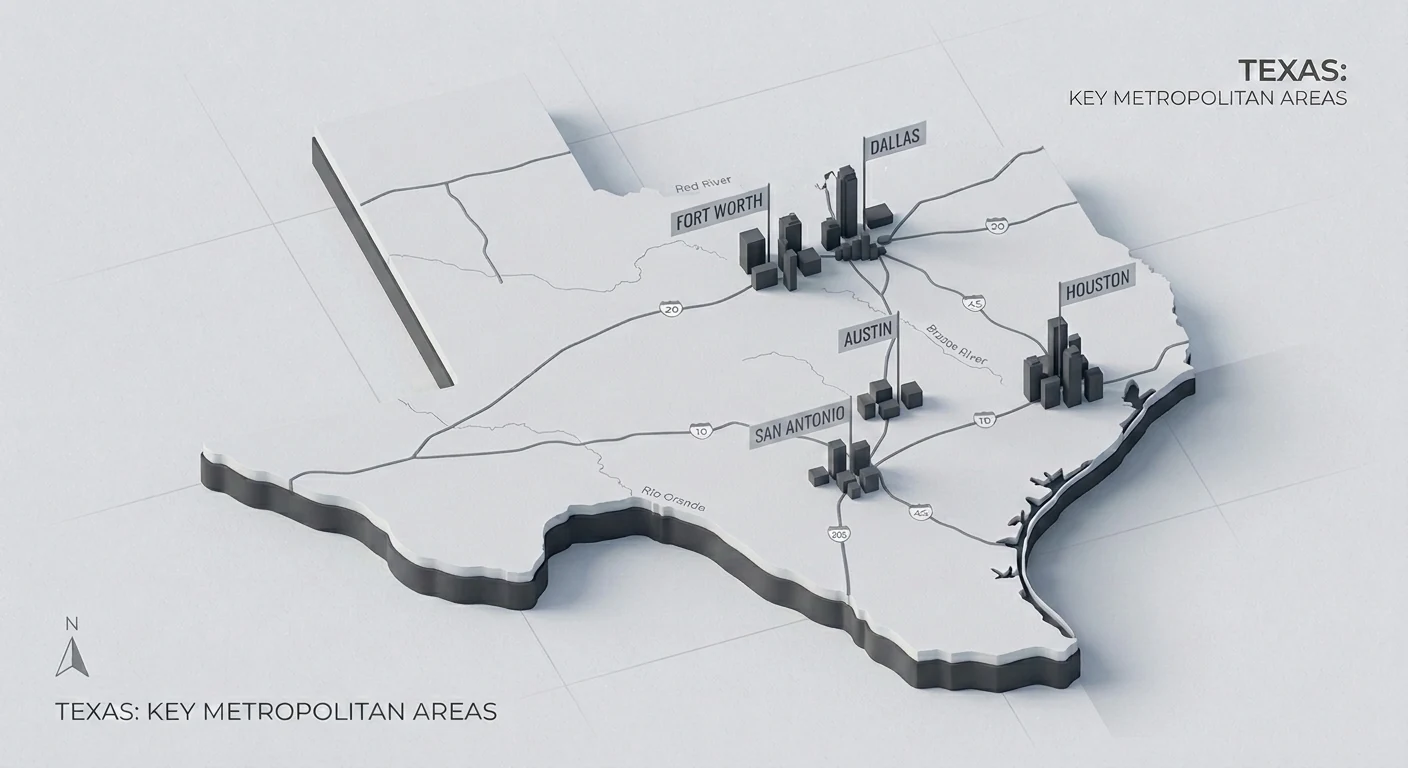
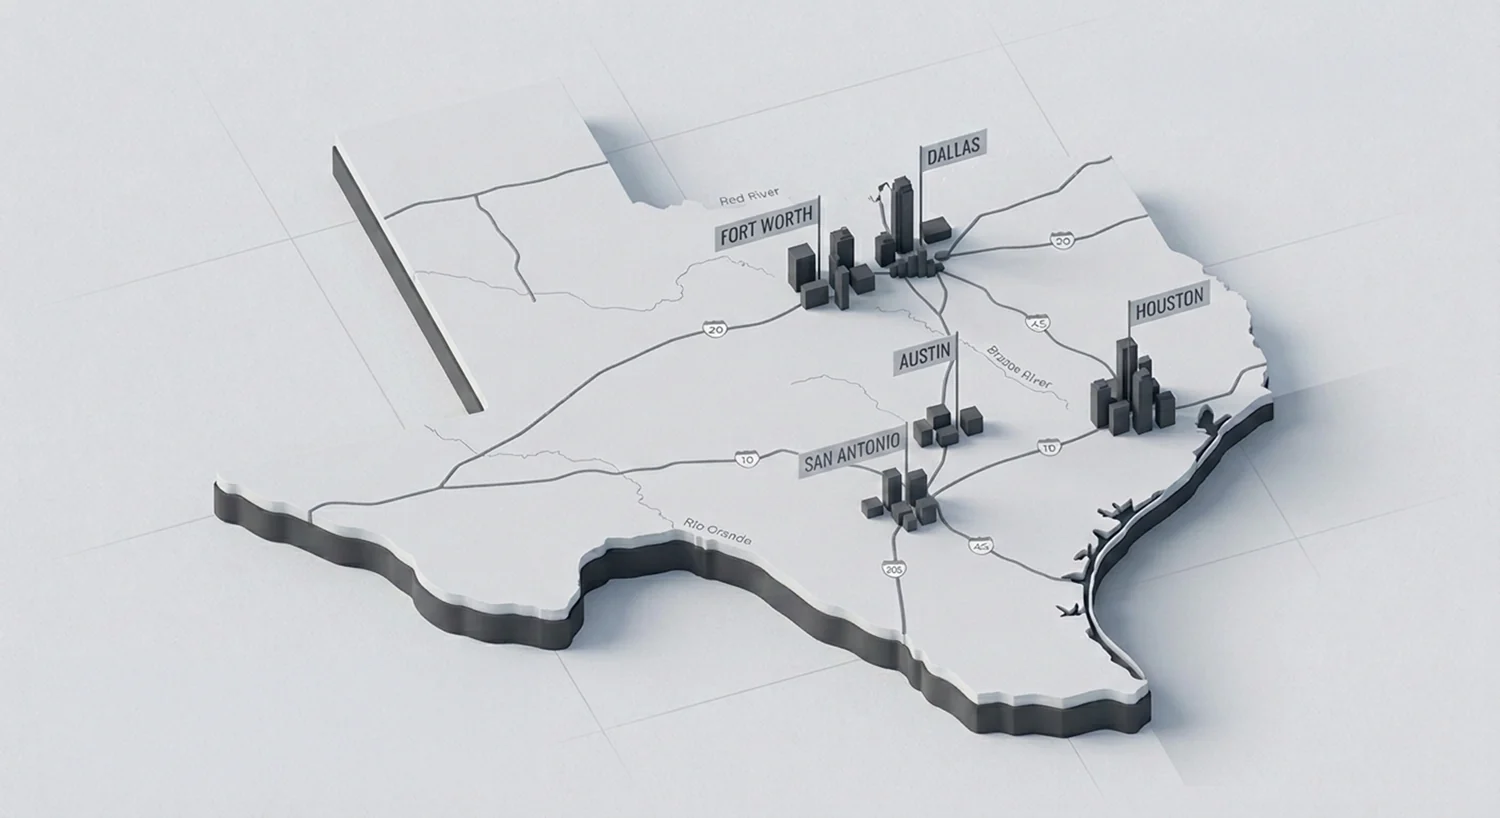
Corrige fondos y degradados con el export SVG de la frame
El archivo de Figma es del diseñador y vive en un plan Starter, donde la API
permite ~6-20 peticiones AL MES, no por minuto. Se agotaron en la primera sesión.
La alternativa es el export SVG de la frame, que no consume cuota y para casi todo
resulta mejor que la API.

Errores que corrige, todos por haber estimado del render en vez de leer el archivo:

- Tarjeta del hero: 216.12deg, no 209.48. Derivar el ángulo de los
  gradientHandlePositions de la API da valores incorrectos porque el segundo
  handle no es el punto final del eje. El SVG trae x1,y1,x2,y2 absolutos.
- "Cómo es nuestro trabajo": el fondo no es un degradado de 129° como deduje del
  render. Son tres capas: cian plano #08B6FF, el mapa al 92% en multiply, y encima
  un degradado 112.07deg de transparente a #023451.
- Mapa de Texas: va a 1437x784 en (-445,-102), no a 1029x561. La matriz del
  patrón SVG da la colocación exacta.
- Bio y servicios: las fotos de fondo estaban sin identificar. Vienen embebidas en
  base64 dentro del SVG, con su opacidad (0.25 y 0.34) y su transformación.

Diff contra la frame renderizada: bio 211->101, servicios 117->69,
trabajo 209->67. Hero sigue en 0.

El SVG no trae tipografía (el texto se exporta como paths); para eso sigue valiendo
medir el ancho de línea en el render PNG y calibrarlo contra la fuente real.

Claude-Session: https://claude.ai/code/session_01JDws6UyLRhYbRcsQ6VY9po

diff --git a/src/components/sections/como-trabajamos.tsx b/src/components/sections/como-trabajamos.tsx
@@ -7,8 +7,11 @@ import { offices } from "@/lib/site";
  * dentro de esta misma sección, no en la siguiente.
  * Coordenadas relativas al inicio de la sección (y absoluta − 4746).
  *
- *   fondo    59:41   1923×668, degradado azul en diagonal
- *   mapa             imagen del mapa de Texas, a la izquierda
+ *   fondo    59:41   tres capas apiladas, todas del export SVG:
+ *                      1. cian plano #08B6FF
+ *                      2. mapa 1437×784 en (−445, −102), opacidad 0.92, multiply
+ *                      3. degradado 112.07deg de #057EBC transparente al 4.70%
+ *                         hasta #023451 opaco al 46.06%  ← esto oscurece la derecha
  *   marcadores 104:78 x324 y151 · 104:75 x416 y115 · 104:72 x458 y287 ·
  *              104:69 x405 y364 · 83:111 x626 y251, todos de 36.46×36.46
  *   título   59:42   x1021 y84  657×134  Poppins 600 64px lh1.04 UPPER, blanco
@@ -18,10 +21,12 @@ import { offices } from "@/lib/site";
  *   sedes    97:29   x944 y462 798×108   5 columnas de 130, separadores de 3px
  *                    ciudad en #08b6ff, dirección blanca, 16px lh1.04
  *
- * PENDIENTE (la API de Figma sigue en 429): los handles exactos del degradado del
- * fondo —el ángulo de 129° está estimado midiendo el render, no leído del archivo—
- * el modo de fusión del mapa, y los SVG reales de los marcadores, que aquí van
- * aproximados en CSS.
+ * Fondo, mapa y sus transformaciones salen del export SVG de la frame. Antes estaban
+ * estimados y estaban mal: había deducido un degradado de 129° que no existe, y el
+ * mapa a 1029×561 cuando en realidad va a 1437×784.
+ *
+ * Los marcadores siguen aproximados en CSS: el SVG los trae como paths y no he
+ * extraído sus vectores.
  */
 
 const marcadores = [
@@ -34,32 +39,32 @@ const marcadores = [
 
 export function ComoTrabajamos() {
   return (
-    <section
-      className="relative overflow-hidden design:h-[668px]"
-      style={{
-        backgroundImage:
-          "linear-gradient(129deg, #0696d6 0%, #013451 45%, #013451 100%)",
-      }}
-    >
+    <section className="bg-vernal-accent relative overflow-hidden design:h-[668px]">
       <div className="relative mx-auto max-w-[1920px] px-6 py-16 lg:px-12 design:h-[668px] design:p-0">
-        {/* Mapa de Texas. Escala y posición DEDUCIDAS, no leídas del archivo: la
-            separación Fort Worth→Houston entre mis marcadores (302px) frente a la
-            del mapa original (~413px) da un factor de 0.73, y de ahí el desplazamiento.
-            Las posiciones de las etiquetas en el original se midieron a ojo, así que
-            esto tiene un margen de ±20px. Confirmar con la caja del nodo cuando la
-            API de Figma vuelva a responder. */}
+        {/* Mapa de Texas: multiply sobre el cian. El original tiene fondo blanco y
+            el multiply lo hace desaparecer dejando solo el relieve. */}
         <div
           aria-hidden
-          className="pointer-events-none relative mx-auto h-[300px] w-full max-w-[560px] design:absolute design:top-[10px] design:left-[-137px] design:mx-0 design:h-[561px] design:w-[1029px] design:max-w-none"
+          className="pointer-events-none relative mx-auto h-[300px] w-full max-w-[560px] design:absolute design:top-[-102px] design:left-[-445px] design:mx-0 design:h-[784px] design:w-[1437px] design:max-w-none"
         >
           <Image
             src="/images/trabajo/mapa-texas.webp"
             alt=""
             fill
-            sizes="1029px"
+            sizes="1437px"
             className="object-contain opacity-90 mix-blend-multiply"
           />
         </div>
+
+        {/* Capa 3: el degradado que apaga la mitad derecha. */}
+        <div
+          aria-hidden
+          className="pointer-events-none absolute inset-0"
+          style={{
+            backgroundImage:
+              "linear-gradient(112.07deg, rgb(5 126 188 / 0) 4.70%, #023451 46.06%)",
+          }}
+        />
 
         {/* Marcadores: van en coordenadas exactas del archivo, relativas a la sección. */}
         {marcadores.map((m) => (

diff --git a/src/components/sections/bio-vernal.tsx b/src/components/sections/bio-vernal.tsx
@@ -5,7 +5,8 @@ import Link from "next/link";
  * "Conocé al abogado Vernal" — nodos del rango y=1751..2559 de la frame 1:2.
  * Coordenadas relativas al inicio de la sección (y absoluta − 1751).
  *
- *   fondo       59:38    1923×808, oscuro con un retrato difuminado a la derecha
+ *   fondo       59:38    #0F0F10 con una foto al 25%, dibujada a 1923×1283 con
+ *                        desplazamiento (+446, −211). Del export SVG de la frame.
  *   composición 129:211  x278 y108  554×547
  *     rect cian 129:192  +3,+147  548×400  #08b6ff
  *     "VERNAL"  129:193  +0,+20   Poppins 600 146px #08b6ff UPPER (detrás)
@@ -21,6 +22,14 @@ import Link from "next/link";
 export function BioVernal() {
   return (
     <section className="bg-vernal-ink relative overflow-hidden design:h-[808px]">
+      <Image
+        src="/images/bio/fondo-bio.webp"
+        alt=""
+        aria-hidden
+        width={1923}
+        height={1283}
+        className="pointer-events-none absolute top-0 right-0 h-full w-auto object-cover opacity-25 design:top-[-211px] design:right-auto design:left-[446px] design:h-[1283px] design:w-[1923px]"
+      />
       <div className="relative mx-auto max-w-[1920px] px-6 py-16 lg:px-12 design:h-[808px] design:p-0">
         {/* Composición: rectángulo cian, "VERNAL" detrás y el retrato recortado. */}
         <div className="relative mx-auto h-[380px] w-[385px] design:absolute design:top-[108px] design:left-[278px] design:mx-0 design:h-[547px] design:w-[554px]">

diff --git a/src/components/sections/servicios.tsx b/src/components/sections/servicios.tsx
@@ -1,3 +1,4 @@
+import Image from "next/image";
 import { ButtonLink } from "@/components/ui/button";
 
 /**
@@ -19,12 +20,20 @@ import { ButtonLink } from "@/components/ui/button";
  *                     líneas da 50px y es incorrecto: hay que medir el ancho de una
  *                     línea en el render (490px) y calibrarlo contra la tipografía.
  *
- * PENDIENTE: la foto de fondo. La API de Figma sigue devolviendo 429 y sin el árbol
- * no sé qué imageRef le corresponde; descartada ya `ed879e3c9` (es otra toma).
+ * El fondo es una foto a 34% de opacidad, dibujada a 1122×1682 con desplazamiento
+ * (+882, −173) dentro del rect de la sección. Sale del export SVG de la frame.
  */
 export function Servicios() {
   return (
     <section className="relative overflow-hidden bg-[#161616] design:h-[668px]">
+      <Image
+        src="/images/servicios/fondo.webp"
+        alt=""
+        aria-hidden
+        width={1122}
+        height={1682}
+        className="pointer-events-none absolute top-0 right-0 h-full w-auto object-cover opacity-[0.34] design:top-[-173px] design:right-auto design:left-[882px] design:h-[1682px] design:w-[1122px]"
+      />
       <div className="relative mx-auto max-w-[1920px] px-6 py-16 lg:px-12 design:h-[668px] design:p-0">
         <div
           aria-hidden

diff --git a/src/app/globals.css b/src/app/globals.css
@@ -49,13 +49,17 @@
 @utility bg-vernal-card {
   /*
    * Degradado de la tarjeta del formulario del hero (nodo 18:7), con la opacidad
-   * de capa 0.71 ya aplicada. Ángulo y stops derivados de los handles del archivo;
-   * la fórmula se validó reproduciendo exactamente el degradado del footer.
+   * de capa 0.71 ya aplicada. Valores leídos del export SVG de la frame, que trae
+   * las coordenadas absolutas del degradado.
+   *
+   * Derivarlo de los gradientHandlePositions de la API daba 209.48deg y era
+   * INCORRECTO: el segundo handle no es el punto final del eje. Para degradados,
+   * el SVG es más fiable que la API.
    */
   background-image: linear-gradient(
-    209.48deg,
-    rgb(23 35 57 / 0.71) 28.28%,
-    rgb(64 98 159 / 0.71) 77.89%
+    216.12deg,
+    rgb(23 35 57 / 0.71) 28.64%,
+    rgb(64 98 159 / 0.71) 76.27%
   );
 }
 

diff --git a/docs/FIGMA.md b/docs/FIGMA.md
@@ -70,6 +70,51 @@ leído en línea dentro de la cabecera, como en el `curl` de arriba.
 | Campos de formulario | Regular 15px, negro | `6:40` |
 | Aviso de consentimiento | ExtraLight Italic 12px, leading 1.17, justificado | `6:87` |
 
+## La fuente buena: el export SVG de la frame
+
+**El archivo no es nuestro.** Pertenece al diseñador, vive en un plan Starter y él
+lo sigue editando. Eso importa por dos motivos:
+
+1. Los límites de la API los marca **el plan donde vive el archivo**, no el nuestro.
+   En Starter son ~6-20 peticiones **al mes**, no por minuto. Se agotan en una sesión.
+2. El diseño es un blanco móvil: conviene confirmar con el diseñador qué secciones
+   están cerradas antes de clavarlas al píxel.
+
+La salida es pedirle un **export SVG de la frame** (Figma → seleccionar frame →
+Export → SVG). No consume cuota y para casi todo es MEJOR que la API:
+
+| Dato | API | SVG |
+|---|---|---|
+| Degradados (ángulo y paradas) | ambiguo | **exacto, en coordenadas absolutas** |
+| Colores planos | sí | sí |
+| Posición y tamaño de imágenes | sí | **sí, con su matriz de escala** |
+| Modos de fusión y opacidades | sí | sí |
+| Las imágenes en sí | URLs que caducan | **embebidas en base64** |
+| Tipografía | sí | **no** (el texto se exporta como paths) |
+
+Lo único que el SVG no da es la tipografía. Para eso: medir el ancho de una línea
+en el render PNG y calibrarlo contra la fuente real (ver más abajo).
+
+### Los degradados: el SVG manda
+
+Derivar el ángulo CSS de los `gradientHandlePositions` de la API **da valores
+incorrectos**: el segundo handle no es el punto final del eje. La tarjeta del hero
+salía a 209.48deg cuando la real es 216.12deg. El SVG trae `x1,y1,x2,y2` absolutos
+y la conversión es directa:
+
+```
+angulo = atan2(dx, -dy)
+L      = |w·sin(a)| + |h·cos(a)|
+parada = proyeccion del punto sobre el eje centrado en la caja, / L, + 0.5
+```
+
+### Los fondos son pilas de capas, no un color
+
+Casi todas las secciones apilan tres cosas y hacen falta las tres. Ejemplo de
+"cómo es nuestro trabajo": cian plano `#08B6FF` + el mapa al 92% en `multiply` +
+un degradado `112.07deg` de transparente a `#023451`. Yo había deducido del render
+un único degradado de 129° que no existe en el archivo.
+
 ## Verificación de fidelidad
 
 Hay un arnés de captura y comparación en el scratchpad de la sesión (`shot/`), con
